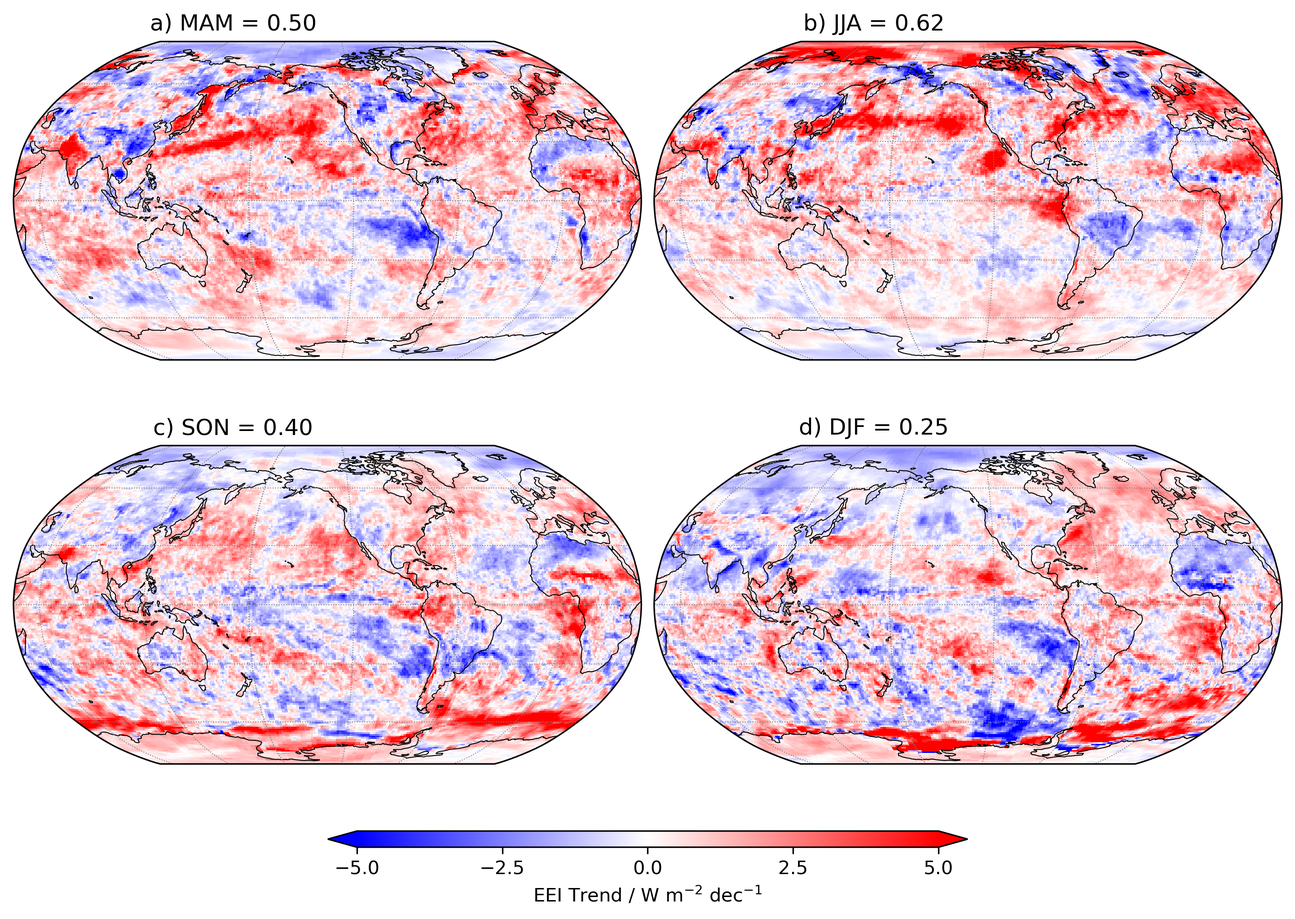
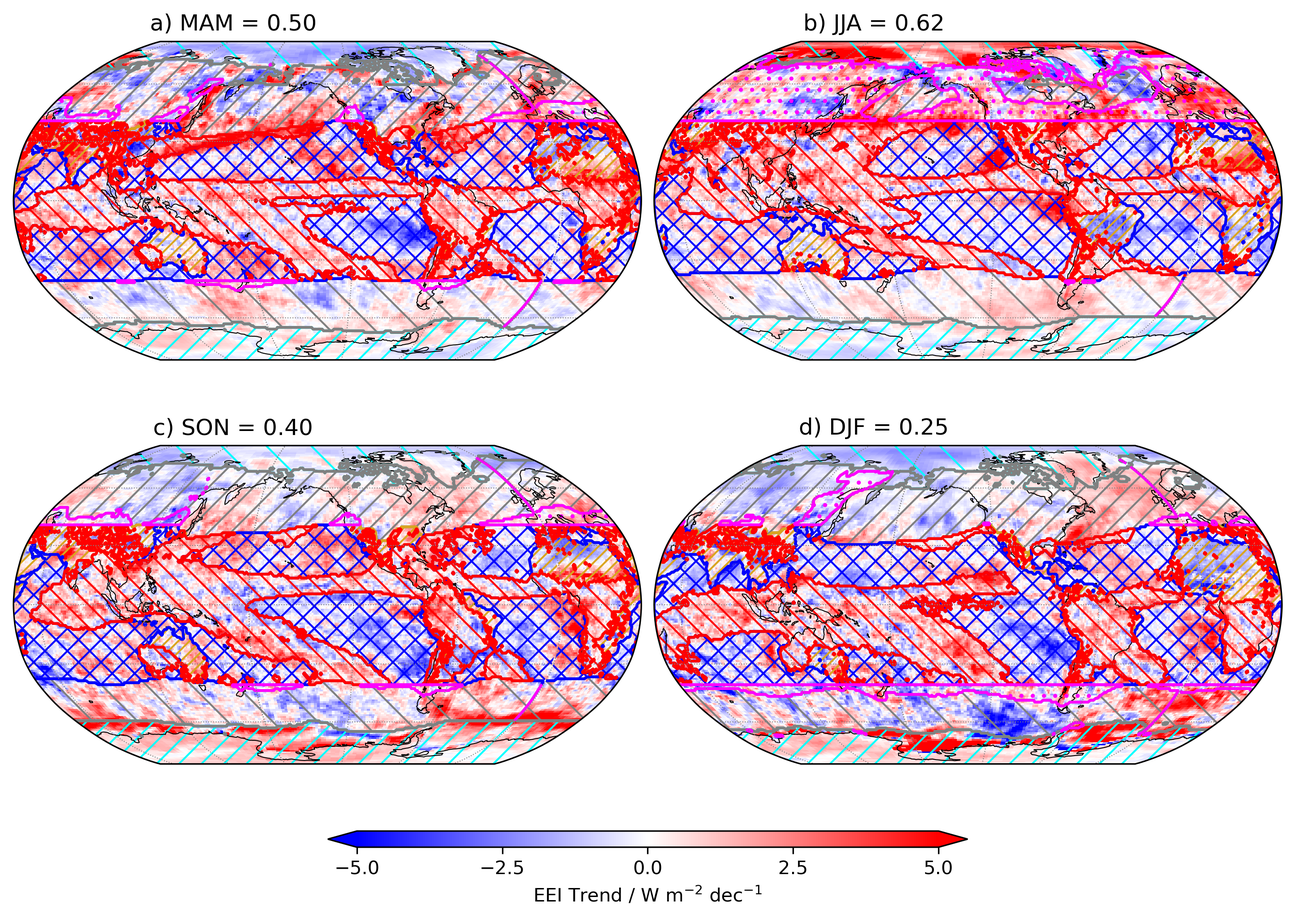
wip masks, fig 2. some details to fix like lon wrapping for SLP_var. and understand from Or why to use a fraction of the SLP_var max rather than an abs val. and if the SLP_var can be computed on a native 1x1 grid rather than needing to interpolate.

Changed region(s): [[0.0, 0.4924, 0.9986, 0.831], [0.0, 0.0308, 0.9986, 0.4001]]

diff --git a/make_figs/figure_2_masks.py b/make_figs/figure_2_masks.py
@@ -3,10 +3,43 @@ import xarray as xr
 import matplotlib.pyplot as plt
 import cartopy.crs as ccrs
 
+import matplotlib.patches as mpatches
+from matplotlib.patches import PathPatch
+from matplotlib.collections import PatchCollection
+
 from utils import global_mean
 from utils.plotting import plot_colormesh, plot_coasts_grid, plot_colorbar
 
 net = xr.open_mfdataset(["pp/ceres_trends.nc"]).net.load()
+masks = xr.open_dataset("pp/regime_masks.nc").load()
+
+regime_names = list(masks.data_vars)[:-1]
+
+# color per regime
+colors = {
+    "nh_storms": "grey",
+    "nh_cryosphere": "cyan",
+    "subsidence_land": "goldenrod",
+    "subsidence_ocean": "blue",
+    "tropical_ascent": "red",
+    "sh_storms": "grey",
+    "sh_cryosphere": "cyan",
+    "residual": "magenta",
+}
+
+# hatching per regime
+hatches = {
+    "nh_storms": "//",
+    "nh_cryosphere": "\\",
+    "subsidence_land": "////",
+    "subsidence_ocean": "xx",
+    "tropical_ascent": "\\\\",
+    "sh_storms": "\\",
+    "sh_cryosphere": "//",
+    "residual": "..",
+}
+
+######
 
 fig,axes = plt.subplots(2, 2, figsize=(9.5,6), subplot_kw={"projection":ccrs.Robinson(central_longitude=-135)}, constrained_layout=True)
 letter = np.array(["a","b","c","d"])
@@ -19,6 +52,117 @@ for i,s in enumerate(["MAM","JJA","SON","DJF"]):
     cf = plot_colormesh(ax, da)
     plot_coasts_grid(ax)
     ax.set_title(letter[i]+") "+s+f" = {trend_gm:0.2f}", position=(0.35, 1.0))
+
+    for name in regime_names:
+        data = masks[name].sel(season=s).astype(int)
+
+        # 1. Contour edges
+        ax.contour(
+            data.lon, data.lat, data,
+            levels=[0.5],
+            colors=[colors[name]],
+            linewidths=1.5,
+            transform=ccrs.PlateCarree(),
+        )
+
+        # 2. Hatched regions with colored hatches
+        ax.contourf(
+            data.lon, data.lat, data,
+            levels=[0.5, 1],
+            colors='none',
+            hatches=[hatches[name]],
+            transform=ccrs.PlateCarree(),
+        )
+        # trick to color the hatches
+        for collection in ax.collections[-1:]:  # last contourf
+            collection.set_edgecolor(colors[name])
+            collection.set_linewidth(0.0)  # remove polygon edges
     
 plot_colorbar(fig, cf, "EEI Trend / W m$^{-2}$ dec$^{-1}$", [0.25, -0.05, 0.5, 0.02])
 plt.savefig("figures/eei_seasons_masks.png", dpi=300, facecolor="w", bbox_inches="tight")
+
+# #####
+
+# fig,axes = plt.subplots(2, 2, figsize=(9.5,6), subplot_kw={"projection":ccrs.Robinson(central_longitude=-135)}, constrained_layout=True)
+# letter = np.array(["a","b","c","d"])
+
+# for i,s in enumerate(["MAM","JJA","SON","DJF"]):
+#     ax = axes.flatten()[i]
+#     da = net.sel(season=s)
+#     trend_gm = global_mean(da).values
+    
+#     cf = plot_colormesh(ax, da)
+#     plot_coasts_grid(ax)
+#     ax.set_title(letter[i]+") "+s+f" = {trend_gm:0.2f}", position=(0.35, 1.0))
+    
+# plot_colorbar(fig, cf, "EEI Trend / W m$^{-2}$ dec$^{-1}$", [0.25, -0.05, 0.5, 0.02])
+# plt.savefig("figures/eei_seasons.png", dpi=300, facecolor="w", bbox_inches="tight")
+
+# #####
+
+# fig,axes = plt.subplots(2, 2, figsize=(9.5,6), subplot_kw={"projection":ccrs.Robinson(central_longitude=-135)}, constrained_layout=True)
+
+# for i,s in enumerate(masks.season.values):
+#     ax = axes.flatten()[i]
+#     for name in regime_names:
+#         data = masks[name].sel(season=s).astype(int)
+
+#         # 1. Contour edges
+#         ax.contour(
+#             data.lon, data.lat, data,
+#             levels=[0.5],
+#             colors=[colors[name]],
+#             linewidths=1.5,
+#             transform=ccrs.PlateCarree(),
+#         )
+
+#         # 2. Hatched regions with colored hatches
+#         cf = ax.contourf(
+#             data.lon, data.lat, data,
+#             levels=[0.5, 1],
+#             colors='none',
+#             hatches=[hatches[name]],
+#             transform=ccrs.PlateCarree(),
+#         )
+#         # trick to color the hatches
+#         for collection in ax.collections[-1:]:  # last contourf
+#             collection.set_edgecolor(colors[name])
+#             collection.set_linewidth(0.0)  # remove polygon edges
+
+#     ax.coastlines()
+#     ax.gridlines(draw_labels=False, linewidth=0.5, color='gray', linestyle=':')
+#     ax.set_title(letter[i]+") "+s, position=(0.35, 1.0))
+
+# plt.savefig("figures/seasons_masks.png", dpi=300, facecolor="w", bbox_inches="tight")
+
+
+#######
+
+plt.figure(figsize=(6,4))
+bottom = np.zeros(len(masks.season))
+regime_names = list(masks.data_vars)[:-1]
+for v in regime_names:
+    area = (masks[v]*masks.area).sum(["lat","lon"])
+    plt.fill_between(masks.season, bottom, bottom+area, color=colors[v], alpha=0.7, label=v)
+    plt.plot(masks.season, bottom+area, color="k")
+    plt.fill_between(masks.season, bottom, bottom+area, alpha=0, hatch=hatches[v])
+    bottom = bottom + area
+
+# Create legend with colored + hatched patches
+legend_handles = []
+for v in regime_names:
+    patch = mpatches.Patch(
+        facecolor=colors[v],
+        alpha=0.7,
+        hatch=hatches[v],
+        edgecolor='black',  # optional: outlines the patch
+        label=v
+    )
+    legend_handles.append(patch)
+plt.legend(handles=legend_handles, loc=(1,0.5))
+
+plt.ylim(0,5.15e14)
+plt.ylabel("Area / m$^2$")
+plt.gca().spines["top"].set_visible(False)
+plt.gca().spines["right"].set_visible(False)
+plt.savefig("figures/area_seasons_masks.png", dpi=300, facecolor="w", bbox_inches="tight")

diff --git a/obs_io/process_masks.py b/obs_io/process_masks.py
@@ -1,0 +1,63 @@
+import numpy as np
+import xarray as xr
+
+### 
+# make regime masks
+###
+
+ds = xr.open_dataset("pp/era5_clim.nc")
+
+# define masks
+ds["nh_cryosphere"] = (ds.lsm>-1)*1
+ds["sh_cryosphere"] = (ds.lsm>-1)*1
+ds["nh_storms"] = (ds.lsm>-1)*1
+ds["sh_storms"] = (ds.lsm>-1)*1
+ds["subsidence_land"] = (ds.lsm>-1)*1
+ds["subsidence_ocean"] = (ds.lsm>-1)*1
+ds["tropical_ascent"] = (ds.lsm>-1)*1
+ds["residual"] = (ds.lsm>-1)*1
+
+# some parameters
+TROPICAL_LAT = 40
+POLAR_LAT = 60
+SIC = 0.1
+ASCENT_OMEGA = 0
+SUBSIDENCE_OMEGA = 0
+NH_STORMS_SLP = 20
+SH_STORMS_SLP = 30
+
+ds["nh_cryosphere"] = ds.nh_cryosphere.where(((ds.lat >= POLAR_LAT) & (ds.siconc > SIC)) # sea ice >60
+                                    | ((ds.lat >=75) & (ds.lsm > 0.5)) # any land >75 
+                                    | ((ds.lat >=POLAR_LAT) & (ds.lsm > 0.5) & (ds.lon > 300) & (ds.lon < 350)), 0) # greenland
+ds["sh_cryosphere"] = ds.sh_cryosphere.where(((ds.lat <= -POLAR_LAT) & ((ds.siconc > SIC) # sea ice >60
+                                    | (ds.lsm > 0.5))) | (ds.lat <= -70), 0) # any land >70
+ds["nh_storms"] = ds.nh_storms.where((ds.lat > 0) & (ds.SLP_var > NH_STORMS_SLP) & (ds.nh_cryosphere < 0.5), 0)
+ds["sh_storms"] = ds.sh_storms.where((ds.lat < 0) & (ds.SLP_var > SH_STORMS_SLP) & (ds.sh_cryosphere < 0.5), 0)
+ds["tropical_ascent"] = ds.tropical_ascent.where((ds.lat >= -TROPICAL_LAT) & (ds.lat <= TROPICAL_LAT) 
+                                    & (ds.omega500 < ASCENT_OMEGA) 
+                                    & (ds.nh_storms < 0.5) & (ds.sh_storms < 0.5), 0)
+ds["subsidence_land"] = ds.subsidence_land.where((ds.lat >= -TROPICAL_LAT) & (ds.lat <= TROPICAL_LAT) 
+                                    & (ds.omega500 > SUBSIDENCE_OMEGA) 
+                                    & (ds.lsm > 0.5) & (ds.nh_storms < 0.5) & (ds.sh_storms < 0.5), 0)
+ds["subsidence_ocean"] = ds.subsidence_ocean.where((ds.lat >= -TROPICAL_LAT) & (ds.lat <= TROPICAL_LAT) 
+                                    & (ds.omega500 > SUBSIDENCE_OMEGA) 
+                                    & (ds.lsm < 0.5) & (ds.nh_storms < 0.5) & (ds.sh_storms < 0.5), 0)
+ds["residual"] = ds.residual.where((ds.nh_cryosphere < 0.5) & (ds.sh_cryosphere < 0.5) 
+                                    & (ds.nh_storms < 0.5) & (ds.sh_storms < 0.5)
+                                    & (ds.subsidence_land < 0.5) & (ds.subsidence_ocean < 0.5)
+                                    & (ds.tropical_ascent < 0.5), 0)
+
+masks = ds.drop_vars(["lsm","siconc","omega500","SLP_var"])
+
+# add grid-area
+R = 6371000  # radius of Earth / m
+dlat = np.deg2rad(float(masks.lat.diff("lat").mean()))
+dlon = np.deg2rad(float(masks.lon.diff("lon").mean()))
+area = (R**2) * dlat * dlon * np.cos(np.deg2rad(masks.lat))
+masks["area"] = area.broadcast_like(masks)
+
+# check all points are in exactly one mask
+sum = masks.tropical_ascent + masks.subsidence_land + masks.subsidence_ocean + masks.nh_storms + masks.sh_storms + masks.nh_cryosphere + masks.sh_cryosphere + masks.residual
+assert np.all(sum == 1), "Not all values are 1"
+
+masks.to_netcdf("pp/regime_masks.nc")

diff --git a/obs_io/process_era5clim.py b/obs_io/process_era5clim.py
@@ -1,0 +1,53 @@
+import numpy as np
+import xarray as xr
+import xesmf as xe
+import pandas as pd
+from utils import add_weights
+
+season_def = {
+    "MAM":[3,4,5],
+    "JJA":[6,7,8],
+    "SON":[9,10,11],
+    "DJF":[12,1,2],
+}
+
+# read ERA5 climatology
+ds = xr.open_mfdataset(["raw_data/masks_levels.nc","raw_data/masks_pressures.nc"])
+ds = ds.rename({"valid_time":"time","latitude":"lat","longitude":"lon"})
+ds["omega500"] = ds.sel(pressure_level=500).w
+ds = ds.drop_vars(["pressure_level","number","expver","w"])
+
+# proper years and weighting
+ds = ds.sel(time=slice("1990-03-01", "2000-02-01"))
+ds = add_weights(ds)
+ds = ds.sortby(["lat","lon"])
+
+# read SLP variance climatology
+slp = xr.open_mfdataset(["antiquated/output/SLP_var_yearly_OnlyTime.nc"])
+
+# make "year" and "month" into one "time" coord
+time = pd.to_datetime(
+    [f"{y}-{m:02d}-01" for y in slp.year.values for m in slp.month.values]
+)
+slp = slp.stack(time=("year", "month"))
+slp = slp.drop_vars(["year","month","time"])
+slp = slp.assign_coords(time=time)
+slp = slp.sel(time=slice("1990-03-01", "2000-02-01"))
+slp = add_weights(slp)
+
+# regrid to same 1x1
+regridder = xe.Regridder(slp, ds, method="bilinear")
+slp = regridder(slp)
+
+ds = xr.merge([ds,slp])
+
+# make seasons
+all = []
+for seas in season_def.keys():
+    sub = ds.sel(time=ds.time.dt.month.isin(season_def[seas]))
+    sub_mean = sub.weighted(sub.days_in_month).mean("time")
+    sub_mean = sub_mean.expand_dims(season=[seas])
+    all.append(sub_mean)
+ds = xr.concat(all, dim="season")
+ds = ds.drop_vars(["days_in_month"])
+ds.to_netcdf("pp/era5_clim.nc")
